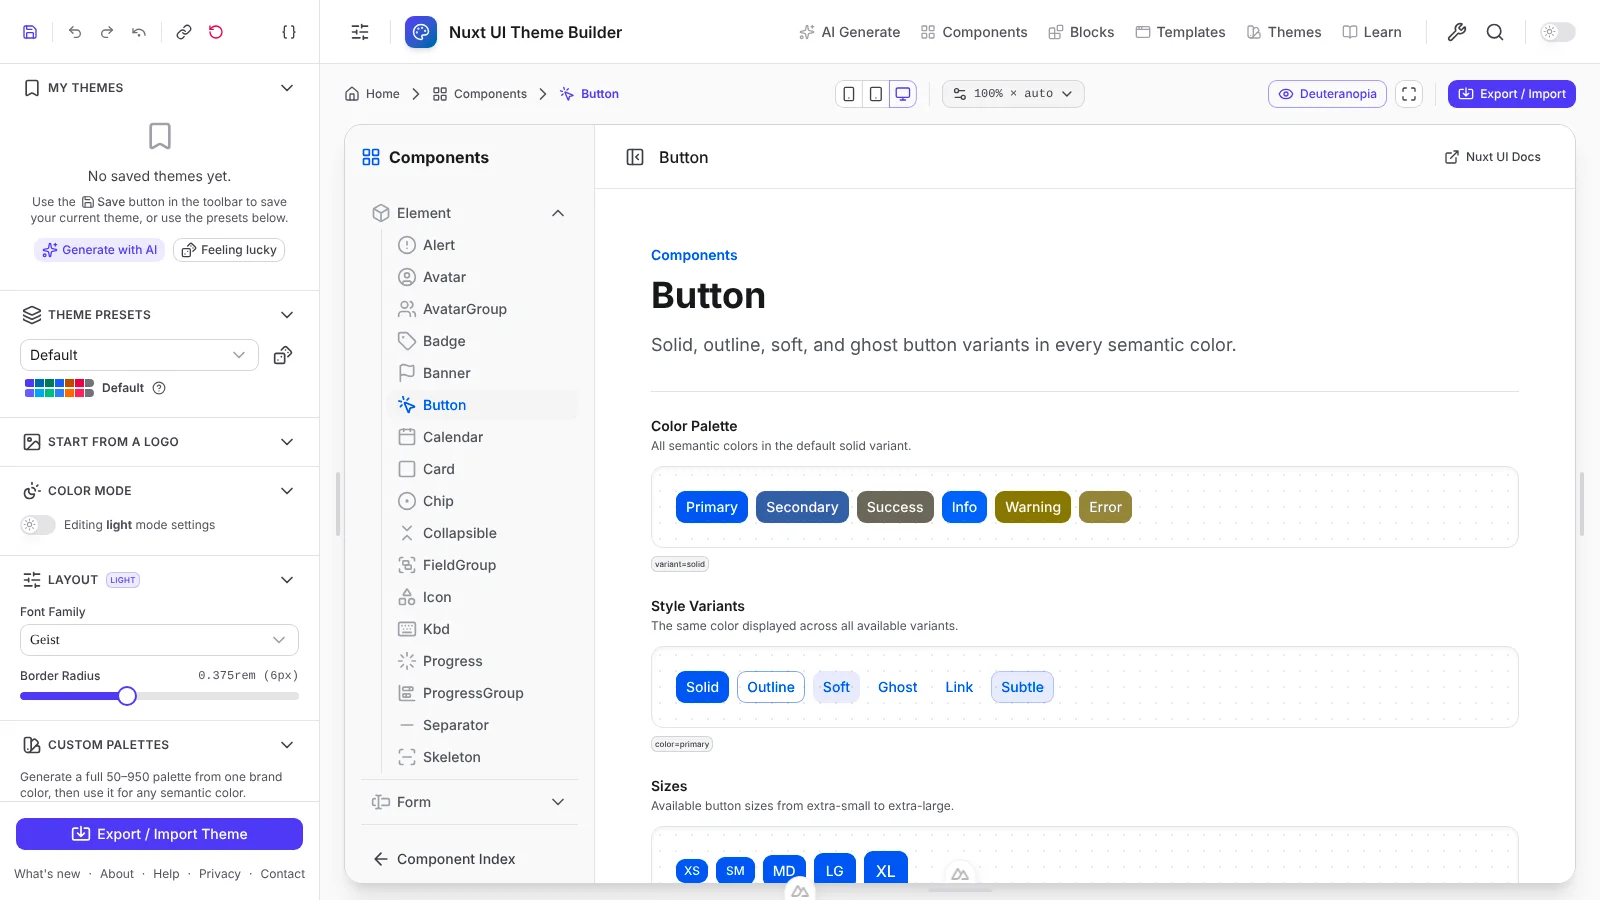
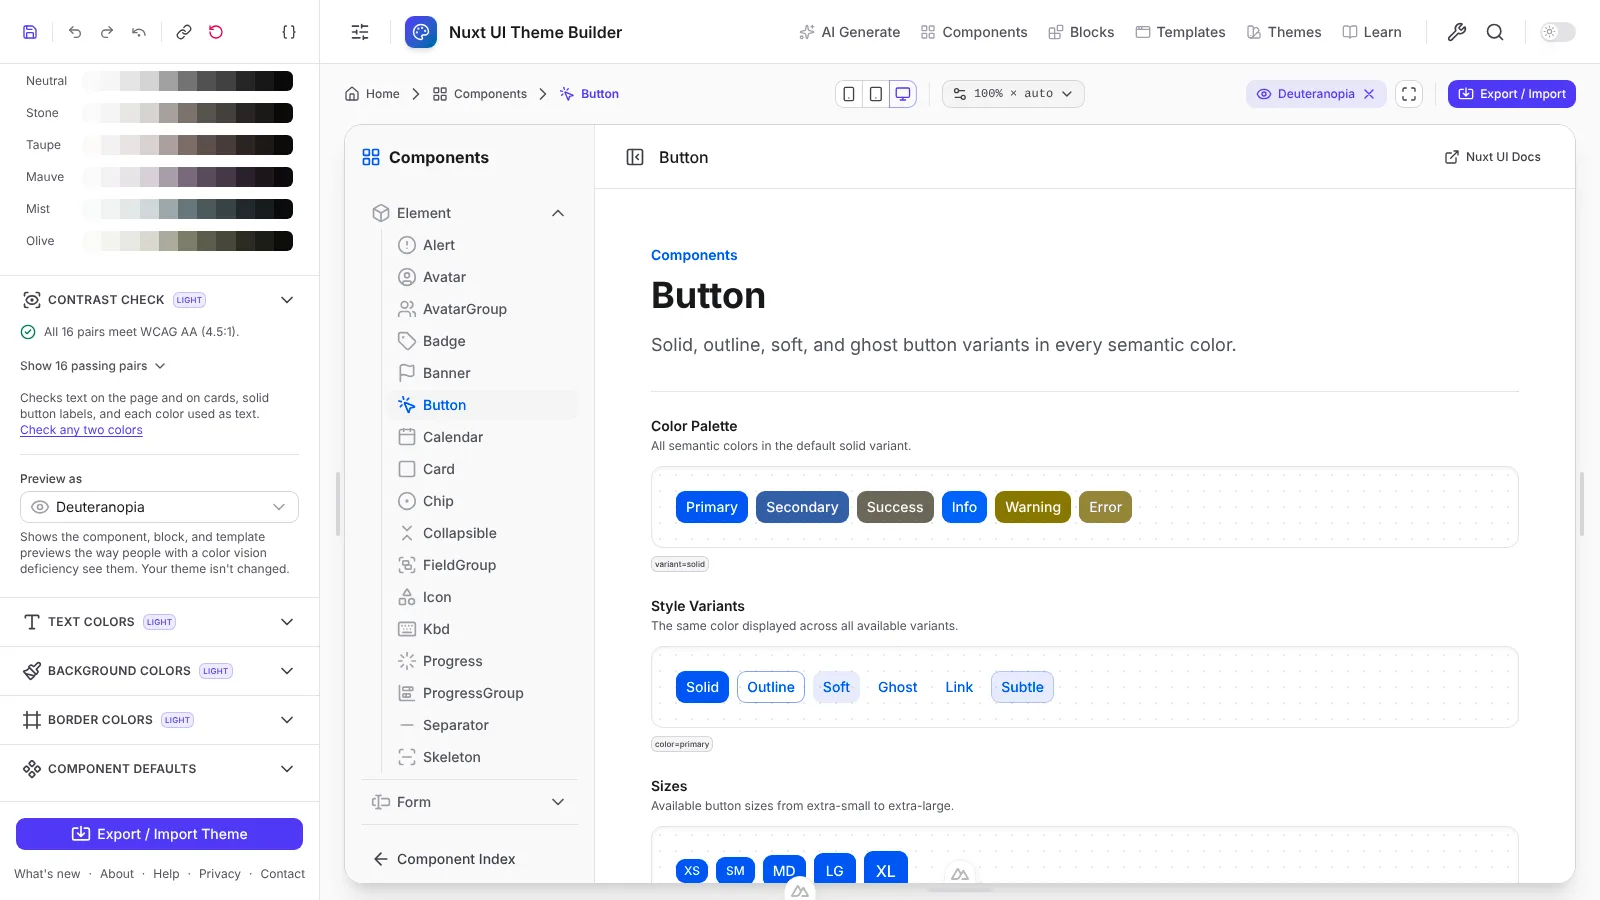
refactor(preview): move color vision preview into the contrast check
The eye-only menu in the preview toolbar didn't say what it did. The
simulation is now a labeled "Preview as" select in the sidebar's Contrast
Check section, and the toolbar shows a badge naming the active simulation
that turns it off when clicked.

Claude-Session: https://claude.ai/code/session_01Eh9WV2nuRQXHFutRXX8xek

diff --git a/tests/unit/components/preview/ColorVisionBadge.test.ts b/tests/unit/components/preview/ColorVisionBadge.test.ts
@@ -1,29 +1,29 @@
 import { describe, it, expect, beforeEach } from "vitest";
 import { mountWithUApp } from "../../../setup/component";
-import ColorVisionMenu from "~/components/preview/ColorVisionMenu.vue";
+import ColorVisionBadge from "~/components/preview/ColorVisionBadge.vue";
 import ColorVisionFilters from "~/components/preview/ColorVisionFilters.vue";
 import { useColorVision } from "~/composables/useColorVision";
 
-describe("PreviewColorVisionMenu", () => {
+describe("PreviewColorVisionBadge", () => {
   beforeEach(() => {
     useColorVision().setMode("none");
   });
 
-  it("renders an unlabeled trigger for normal vision", async () => {
-    const wrapper = await mountWithUApp(ColorVisionMenu);
-    const button = wrapper.find('button[aria-label="Simulate color vision"]');
-    expect(button.exists()).toBe(true);
-    expect(button.text()).toBe("");
+  it("renders nothing for normal vision", async () => {
+    const wrapper = await mountWithUApp(ColorVisionBadge);
+    expect(wrapper.find("button").exists()).toBe(false);
   });
 
-  it("names the active simulation on the trigger", async () => {
+  it("names the active simulation and turns it off on click", async () => {
     useColorVision().setMode("tritanopia");
-    const wrapper = await mountWithUApp(ColorVisionMenu);
+    const wrapper = await mountWithUApp(ColorVisionBadge);
     const button = wrapper.find("button");
     expect(button.text()).toContain("Tritanopia");
     expect(button.attributes("aria-label")).toBe(
-      "Color vision simulation: Tritanopia",
+      "Simulating Tritanopia. Turn off color vision simulation",
     );
+    await button.trigger("click");
+    expect(useColorVision().mode.value).toBe("none");
   });
 });
 

diff --git a/tests/unit/components/editor/ColorVisionSelect.test.ts b/tests/unit/components/editor/ColorVisionSelect.test.ts
@@ -1,0 +1,24 @@
+import { describe, it, expect } from "vitest";
+import { mountSuspended } from "@nuxt/test-utils/runtime";
+import ColorVisionSelect from "~/components/editor/ColorVisionSelect.vue";
+
+describe("EditorColorVisionSelect", () => {
+  it("labels the select and explains what it does", async () => {
+    const wrapper = await mountSuspended(ColorVisionSelect, {
+      props: { modelValue: "none" },
+    });
+    const label = wrapper.find("label");
+    expect(label.text()).toBe("Preview as");
+    const select = wrapper.find(`#${label.attributes("for")}`);
+    expect(select.exists()).toBe(true);
+    const hint = wrapper.find(`#${select.attributes("aria-describedby")}`);
+    expect(hint.text()).toContain("Your theme isn't changed");
+  });
+
+  it("shows the selected mode", async () => {
+    const wrapper = await mountSuspended(ColorVisionSelect, {
+      props: { modelValue: "deuteranopia" },
+    });
+    expect(wrapper.text()).toContain("Deuteranopia");
+  });
+});

diff --git a/app/components/editor/ColorVisionSelect.vue b/app/components/editor/ColorVisionSelect.vue
@@ -1,0 +1,35 @@
+<script setup lang="ts">
+import type { ColorVisionMode } from "~/utils/colorVision";
+import { COLOR_VISION_OPTIONS } from "~/utils/colorVision";
+
+const mode = defineModel<ColorVisionMode>({ required: true });
+
+const inputId = useId();
+const hintId = useId();
+
+const items = COLOR_VISION_OPTIONS.map((o) => ({
+  label: o.label,
+  description: o.description,
+  value: o.id,
+}));
+</script>
+
+<template>
+  <div>
+    <label :for="inputId" class="text-xs font-medium mb-1 block">
+      Preview as
+    </label>
+    <USelect
+      :id="inputId"
+      v-model="mode"
+      :items="items"
+      icon="i-lucide-eye"
+      :aria-describedby="hintId"
+      class="w-full"
+    />
+    <p :id="hintId" class="mt-1.5 text-xs text-(--ui-text-muted)">
+      Shows the component, block, and template previews the way people with a
+      color vision deficiency see them. Your theme isn't changed.
+    </p>
+  </div>
+</template>

diff --git a/app/components/preview/ColorVisionBadge.vue b/app/components/preview/ColorVisionBadge.vue
@@ -1,0 +1,19 @@
+<script setup lang="ts">
+// Reminds people the preview is filtered, since the control lives in the
+// sidebar's Contrast Check section (and the sidebar may be closed).
+const { active, setMode } = useColorVision();
+</script>
+
+<template>
+  <UButton
+    v-if="active"
+    icon="i-lucide-eye"
+    trailing-icon="i-lucide-x"
+    :label="active.label"
+    :aria-label="`Simulating ${active.label}. Turn off color vision simulation`"
+    size="sm"
+    variant="soft"
+    color="primary"
+    @click="setMode('none')"
+  />
+</template>

diff --git a/app/components/editor/Panel.vue b/app/components/editor/Panel.vue
@@ -56,6 +56,8 @@ function copyFromOtherMode() {
   });
 }
 
+const { mode: colorVisionMode } = useColorVision();
+
 const SECTION_KEYS = [
   "myThemes",
   "presets",
@@ -453,6 +455,8 @@ onUnmounted(() => {
             :checks="contrastChecks"
             @fix="onContrastFix"
           />
+          <USeparator class="my-4" />
+          <EditorColorVisionSelect v-model="colorVisionMode" />
           <template #fallback>
             <p class="text-xs text-(--ui-text-muted)">Checking contrast…</p>
           </template>

diff --git a/tests/unit/components/editor/Panel.test.ts b/tests/unit/components/editor/Panel.test.ts
@@ -91,6 +91,11 @@ describe("EditorPanel", () => {
     expect(wrapper.text()).toContain("already match dark mode");
   });
 
+  it("offers the color vision preview in the Contrast Check section", async () => {
+    const wrapper = await mountPanel();
+    expect(wrapper.text()).toContain("Preview as");
+  });
+
   it("renders the custom palettes section", async () => {
     const wrapper = await mountPanel();
     expect(wrapper.html()).toContain("Custom Palettes");

diff --git a/app/components/layout/PreviewToolbar.vue b/app/components/layout/PreviewToolbar.vue
@@ -48,7 +48,7 @@ const exportPanel = useExportPanel();
     <div class="flex items-center gap-2">
       <PreviewViewModeToggle v-if="hasSourcePage" v-model="viewMode" />
 
-      <PreviewColorVisionMenu v-if="framed" />
+      <PreviewColorVisionBadge v-if="framed" />
 
       <!-- Fullscreen toggle -->
       <UTooltip

diff --git a/app/components/preview/FullscreenOverlay.vue b/app/components/preview/FullscreenOverlay.vue
@@ -226,7 +226,7 @@ onUnmounted(() => {
           <div class="flex items-center gap-2">
             <UColorModeSwitch />
 
-            <PreviewColorVisionMenu />
+            <PreviewColorVisionBadge />
 
             <USeparator
               orientation="vertical"

diff --git a/app/data/help.md b/app/data/help.md
@@ -180,8 +180,6 @@ The main content area renders a live, interactive preview of your theme. Navigat
 
 Resize the preview viewport with the toolbar controls — desktop, tablet, and mobile presets, or enter a custom width. Toggle **Code** to view the source code of the current preview page.
 
-The **eye** button shows the preview the way people with color vision deficiencies see it: protanopia, deuteranopia, tritanopia, or achromatopsia (no color at all). Use it to check that success, warning, and error states don't rely on color alone. The simulation only changes the preview, never your theme or its export, and it switches off when you reload the page.
-
 ---
 
 ## Shade Overrides
@@ -217,6 +215,8 @@ The **Contrast Check** section measures the color pairs your theme actually rend
 - Each semantic color used as text or links on the page background
 
 Pairs below 4.5:1 are listed first with their ratio. When a nearby shade fixes the pair, a **Use** button applies it: for a semantic color it changes that color's shade, and for text it changes the text token. Every fix is a normal edit, so **Undo** reverts it. Switch color mode to check the other mode, and use the [Contrast Checker](/tools/contrast-checker) tool to test any two colors.
+
+Below the list, **Preview as** shows the component, block, and template previews the way people with a color vision deficiency see them: protanopia, deuteranopia, tritanopia, or achromatopsia (no color at all). Use it to check that success, warning, and error states don't rely on color alone. While a simulation is on, the preview toolbar shows its name; click it to turn the simulation off. It only changes the preview, never your theme or its export, and it switches off when you reload the page.
 
 ---
 

diff --git a/content/changelog/2026-10-19-color-vision.md b/content/changelog/2026-10-19-color-vision.md
@@ -5,13 +5,13 @@ date: "2026-10-19"
 badge: new
 image:
   src: /changelog/color-vision.webp
-  alt: The button preview simulating deuteranopia, where success, warning, and error look alike
+  alt: The Contrast Check section previewing the button page as deuteranopia, where success, warning, and error look alike
 links:
   - label: Accessible color contrast guide
     to: /learn/best-practices/accessible-color-contrast
     icon: i-lucide-book-open
 ---
 
-About one in twelve men has some form of color blindness. The new **eye** button in the preview toolbar shows any component, block, or template page the way they see it. Pick protanopia, deuteranopia, or tritanopia (no red, green, or blue cones), or achromatopsia (no color at all).
+About one in twelve men has some form of color blindness. The **Contrast Check** section now has a **Preview as** choice that shows any component, block, or template page the way they see it. Pick protanopia, deuteranopia, or tritanopia (no red, green, or blue cones), or achromatopsia (no color at all).
 
-It's a quick way to catch states that rely on color alone. Under deuteranopia, for example, green success and orange warning badges can look almost the same. The simulation also works in fullscreen. It only changes the preview, never your theme or its export.
+It's a quick way to catch states that rely on color alone. Under deuteranopia, for example, green success and orange warning badges can look almost the same. While a simulation is on, the preview toolbar shows which one, and clicking it turns it off. The simulation also works in fullscreen. It only changes the preview, never your theme or its export.
